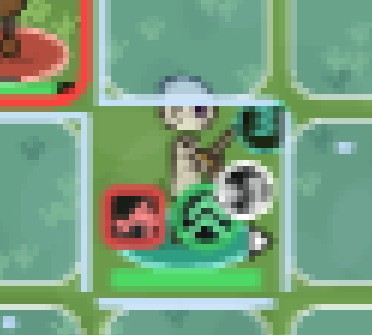
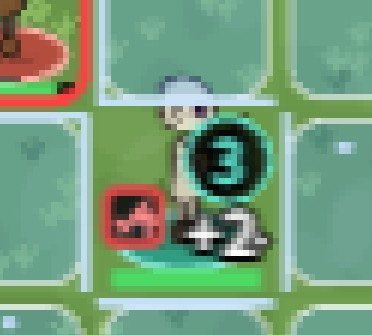
docs(6F-11): report and screenshots (same-frame zooms)

Changed region(s): [[0.4435, 0.2985, 0.7984, 0.806]]

diff --git a/docs/phases/Phase6F-11報告.md b/docs/phases/Phase6F-11報告.md
@@ -1,0 +1,237 @@
+# Phase 6F-11 報告：6F-10b 驗收的補修（800 寬召喚物標記、最上排飄字、一般單位「+N」、徽章數字、世界畫面黏字）
+
+實作者，2026-11-05。分支 `worktree-agent-a75be397fd6c53834`，從 main `28968815` 開始（含 6F-10b 與 `docs/art/6F-10b檢查.md`）。沒有 push，也沒有合併。
+
+**範圍**：只改 `client/`，只改外觀與顯示。
+- 沒碰：skillgen、內容、人物繪製。
+- 沒有新增相依套件、原生 `title=`、`Math.random`。
+
+**依據**：`docs/art/6F-10b檢查.md`「下一段要修」1～3。
+
+**截圖方式**（同 6F-10b）
+- 無頭 Chrome（`--mute-audio`，網址加 `?mute=1`），用 `Emulation.setDeviceMetricsOverride` 把視窗真的設成檔名上的尺寸（device scale 1）。
+- **全圖和放大圖是同一幀**：每組只拍一次全畫面 PNG，`_zoom` 是在頁面裡用 canvas 從同一張圖裁出來、最近鄰放大。
+- 實機量到的地圖縮放（開闊平原）：1600×900 是 127.5%、1040×624 是 79.6%、800×600 是 64.6%。
+- 戰鬥畫面都是正式畫面。狀態是攔下戰鬥 API 的回應補上去的（守護、強化、虛弱共 3 個），做法和 6F-10b 一樣：
+  - 召喚物：只補召喚物；
+  - 一般單位：開戰前就攔，補給所有沒有狀態的單位。
+- 世界畫面是正式畫面（新建角色、在主城、先關掉開場對話框）。
+  - 任務和線頭：新角色沒有，所以攔下 API 回應各補 1 筆（「霧渡鎮的委託」「蘆葦地裡的爪痕」）。右下角任務追蹤也會出現這一筆。
+  - 公告板的賽季 Boss、聯賽：用真的資料。
+
+---
+
+## 1. 800 寬（縮放 ≤ 70%）的召喚物標記
+
+做法（純函式在新檔 `render/rowLayout.ts`，由 `unitSprite.ts` 接上）：
+
+**狀態列**
+- 縮放 ≤ 70% 時（`isCompactRow`）只顯示 1 個圖示，後面接「+N」，N ＝ 狀態總數 − 1。
+- 「+N」是一般大小的字，不是角標：
+  - 粗體白字加深色描邊；
+  - 字級 9 × 反向放大倍率，畫面上和圖示的圖案一樣是 10px；
+  - 放在圖示右邊，中間留空隙，不蓋圖示。
+- 召喚物的狀態列靠左，把右上角讓給徽章。
+
+**回合數徽章**
+- 徽章自己也是「最小尺寸標記」（`registerMark`，數字畫面上至少 10px，見第 4 項）。
+  - 800 寬時放大 1.55 倍，畫面上的半徑是 7.0px。
+- 數字改成粗體加深色描邊（`SUMMON_BADGE_STROKE` 3）。
+- 放不下原位時，徽章放在格子右上角（`summonBadgeCorner`）：
+  - 整顆（含外框線）離格子邊緣 1.5px；
+  - 不壓格線、不跨進隔壁格（6F-10b 是壓出右緣 3px）。
+- 「+N」字的筆畫下緣比圖示下緣低 0.9（`ROW_PLUS_DROP`），和徽章至少留 1px。
+
+**截圖**（覆蓋舊檔）
+- `6f10b_summon_800`、`6f10b_summon_800_zoom`：
+  - 狀態列是 1 個圖示加「+2」，「+2」不蓋圖示；
+  - 徽章「3」讀得出來，整顆在格子裡。
+- `6f10b_summon_800_panel_zoom` 也從同一幀重裁。內容和舊檔一樣，所以 git 沒有變更。
+- 另外補拍：
+  - `6f11_1_summon_1040`、`_zoom`：見待決 1；
+  - `6f11_1_summon_1600`、`_zoom`：1600 寬照舊，只有數字多了描邊。
+
+## 2. 最上排的飄字
+
+- **頭頂空間的上限再往下 7px**（`FLOAT_TOP_SHIFT_PX`，畫面 px）。換成世界座標是 7 ÷ 縮放，所以 1600 寬和 800 寬在畫面上都是 7px。
+- **另外加了一條規則**：
+  - 一組字停住時如果已經在戰場上緣以內，飄到最高也不會超出上緣（`capRise`）；
+  - 離上緣不到 2px 的字就不往上飄，只彈一下；
+  - 停住時本來就在上緣外的（第一排的人頭上沒空間），照 6F-10 的規則，上界是畫布上緣。
+- 原因：只往下推 7px 時，同一個「−7」在剛出現時是在上緣以內，但之後繼續往上飄，還是會飄到上緣外約 13px（實測連拍）。
+- **截圖**（開闊平原、種子 1，主角在 (0,3) 撞到地圖邊緣兩次）：
+  - `6f11_2_top_1600`、`_zoom`：四個字都在，「−7」在草地上緣以內。
+  - `6f11_2_top_800`、`_zoom`：同上。
+  - `6f11_2_top_1600_peak`、`_zoom` 和 `6f11_2_top_800_peak`、`_zoom`：飄到最高、快淡出時，「−7」仍在上緣以內。
+
+## 3. 一般單位的「+N」
+
+- **1600、1040 寬**：改成角標，和 6F-10b 召喚物的角標一樣（`SUMMON_MORE_R` 4）。
+  - 角標接在第 2 個圖示右上角外側，放得下時完全不重疊（`moreDx` ＝ `SUMMON_MORE_DX_MAX`）。
+  - 整排夾在格子裡（`fitRow`，和召喚物同一套讓步順序）。
+- **800 寬**：照第 1 項，1 個圖示加一般大小的「+N」字，整組置中。
+- **截圖**（三組放大的都是主角 (0,3)、戰士隊友 (1,2)、盜賊 (1,3)）：
+  - `6f11_3_unit_1600`、`_zoom`：2 個圖示，「+1」角標在第 2 個圖示外面。
+  - `6f11_3_unit_1040`、`_zoom`：同上。
+  - `6f11_3_unit_800`、`_zoom`：1 個圖示加「+2」字。
+
+## 4. 徽章數字至少 10px
+
+- 召喚物回合數徽章的倍率 ＝ max(1, 10 ÷ (字級 10 × 縮放))（`summonBadgeScale`）。
+- 數字在畫面上一律 ≥ 10px，半徑跟著 ≥ 7px：
+  - 1600 寬：倍率 1，數字 12.8px；
+  - 1040 寬：倍率 1.26，數字 10px；
+  - 800 寬：倍率 1.55，數字 10px。
+- 繪製器建立單位與改變縮放時，先套用徽章、再套用狀態列（`unitMarksOf`）。狀態列重排時會一起搬徽章。
+- 重排的回呼多傳了地圖縮放（`Relayout = (k, boardScale)`），精簡列要用它判斷。
+- **截圖**：第 1 項的 `6f10b_summon_800*`、`6f11_1_summon_1040*`、`6f11_1_summon_1600*`。
+
+## 5. 世界畫面 6 處黏字
+
+- 新增 `.lead-gap { margin-inline-start: 0.75em; }`（`styles/base.css`），間距和 6F-10b 的 `SummonTitle` 一樣是 0.75em。
+- 6 處都把行首的全形空白拿掉，改成在那個 span 加上 `lead-gap`。實測 margin 是 9px。
+
+| 位置 | 截圖 |
+|---|---|
+| `world/QuestLog.tsx` 28 行（任務名稱｜種類・委託人） | `6f11_5_quest_1600`、`_zoom` |
+| `world/QuestLog.tsx` 56 行（線頭｜範圍・到期・NPC・地點） | `6f11_5_thread_1600`、`_zoom` |
+| `world/WorldGrowth.tsx` 49 行（成長與技能｜Lv…） | `6f11_5_growth_1600`、`_zoom` |
+| `world/LeaguePanel.tsx` 76 行（報名中｜賽季第 N 天…） | `6f11_5_league_1600`、`_zoom` |
+| `world/BoardPanel.tsx` 154 行（碎晶之主｜封印中） | `6f11_5_board_1600`、`_zoom` |
+| `run/FlashChooser.tsx` 86 行（閃現「點燃」｜第 1 次） | `6f11_5_flash_1600`、`_zoom`（開發入口 `/?dev=1&screen=flash`） |
+
+- **原始碼掃描**（`fix6f11.test.ts`）：所有 `.tsx` 都不准有「縮排後第一個字是全形空白」的行。
+  - 句子中間的全形空白 JSX 會保留，不在掃描範圍。
+
+---
+
+## 驗證
+
+**排版煙霧檢查**
+- 網址 `/?dev=1&anim=0.1&mute=1`，先 `localStorage.clear()` 再重新載入，跑 `__layoutSmoke.runCase('6F-11')`。伺服器帶 `TRPG_DEV_ROUTES=1`。
+- 1600×900、1040×624、800×600 三個尺寸都是「全 PASS」，各 12 列。
+- 主控台照舊有 React 的 `flushSync` 警告（`BattleScreen`，6F-10 就有，這次沒改）。
+
+**6.5.1 浮動卡實測**（功能列「技能」鈕的說明卡）
+
+| 步驟 | 1600×900 | 800×600 |
+|---|---|---|
+| 滑過 → 卡片出現 | ✓（707～821） | ✓（436～550） |
+| 滑進卡片後不關 | ✓ | ✓ |
+| 卡內捲動後不關 | ✓（卡片 106px，沒有可捲的內容，只確認不關） | ✓ |
+| 點一下釘住 → 滑出去不關 | ✓ | ✓ |
+| Esc 關閉 | ✓ | ✓ |
+
+截圖：`6f11_float_1600_pinned`、`6f11_float_800_pinned`。
+
+**交件前的完整檢查**
+- client 全部 vitest：**251 個檔、2851 項全過**，結束碼 0。
+- `corepack pnpm -C client build`（含 `tsc --noEmit`）：結束碼 0。
+
+**程序**
+- 自己啟動的程序：
+  - API 8359（`scratchpad/f11/serve.py`，用主資料夾 `.venv` 的 Python 跑 worktree 的 `src`，存檔在 `scratchpad/f11/saves`）
+  - vite 5359（暫時設定 `client/vite.f11.config.mts`，沒有 commit，交件前刪除）
+  - CDP 9591 的無頭 Chrome
+  - 煙霧檢查自己啟、自己關的無頭 Chrome（9593）
+- 結束時只用這些程序的 PID 關掉。
+- 沒碰 8000、8001、8010、`tmp_x`、`saves/`。暫存都在 `scratchpad/f11/`，沒有 commit。
+
+## 檔案清單
+
+**新增**
+- `client/src/render/rowLayout.ts`：狀態列與回合數徽章的排法（純函式）
+  - 從 `unitSprite.ts` 搬來的常數與 `summonRowLayout`；
+  - 新增 `isCompactRow`、`compactRow`、`unitRowLayout`、`fitRow`、`summonBadgeScale`、`summonBadgeCorner`、`summonBadgeAlone`；
+  - 新增檢查重疊用的幾何工具 `rowShapes`、`rowSpan`、`circleHitsBox`、`circleHitsCircle`。
+- `client/src/ui/fix6f11.test.ts`
+- 截圖 `docs/art/6f11_*`，共 34 張：
+  - 召喚物 4 張
+  - 最上排飄字 8 張
+  - 一般單位 6 張
+  - 世界畫面黏字 12 張
+  - 浮動卡 2 張
+- 本報告
+
+**覆蓋**
+- `docs/art/6f10b_summon_800.jpg`、`6f10b_summon_800_zoom.jpg`
+- `6f10b_summon_800_panel_zoom.jpg` 從同一幀重裁，內容沒變
+
+**修改**
+- `client/src/render/unitSprite.ts`：
+  - `statusRow` 改用 `unitRowLayout`、`summonRowLayout`，新增精簡列「+N」字（`plusText`）、角標（`moreTag`）；
+  - `summonBadge` 登記成標記、數字加描邊；
+  - 搬走的常數照舊從這裡匯出。
+- `client/src/render/minMark.ts`：`MIN_BADGE_FONT_PX`、`SUMMON_BADGE_LABEL`（從 unitSprite 搬來）、`Relayout` 多傳縮放、`unitMarksOf`
+- `client/src/render/BattleRenderer.ts`：
+  - `scaleUnitMarks`（徽章與狀態列一起套用）；
+  - `floatRoom` 加 `floatTopShift`；
+  - `capRise`、`groupRestTop`、`mapTopY`。
+- `client/src/render/floatStack.ts`：`FLOAT_TOP_SHIFT_PX`、`floatTopShift`、`capRise`
+- `client/src/styles/base.css`：`.lead-gap`
+- `client/src/world/QuestLog.tsx`、`WorldGrowth.tsx`、`LeaguePanel.tsx`、`BoardPanel.tsx`、`client/src/run/FlashChooser.tsx`：行首全形空白 → `lead-gap`
+- 舊測試跟著新規則改（舊規則被美術 PM 這次的決定取代）：
+  - `client/src/ui/fix6f10.test.ts`：召喚物各縮放的檢查改成照實際縮放算徽章倍率與精簡列，用圓和方框檢查重疊；「放不下時」改看右上角。
+  - `client/src/ui/fix6f10b.test.ts`：800 寬的角標、靠右緣壓出 3px 的檢查改成精簡列與右上角；接線字串跟著改。
+  - `client/src/ui/fix6f9.test.ts`：接線改看 `scaleUnitMarks`。
+
+## 測試數
+
+`fix6f11.test.ts` 共 18 項：
+- **第 1 項（7 項）**
+  - 精簡列只在縮放 ≤ 70%；
+  - 800 寬 1 個圖示加「+N」，字不蓋圖示、畫面上 ≥ 10px；
+  - 800 寬徽章半徑 ≥ 7px、數字 ≥ 10px；
+  - 800 寬徽章整顆在格子裡，和狀態列（含描邊）至少留 1px，狀態列在格子裡、在 HP 條之上；
+  - 1600 寬照 6F-10b；
+  - 1040 寬右上角、不重疊；
+  - 有炸彈時也不重疊。
+- **第 3 項（2 項）**
+  - 1600、1040 角標完全在圖示外、整排在格子裡；
+  - 800 精簡列置中。
+- **第 4 項（3 項）**
+  - 各縮放數字 ≥ 10px、半徑 ≥ 7px；
+  - 徽章是標記、套用順序（徽章先）、重排拿得到縮放；
+  - 接線。
+- **第 5 項（2 項）**
+  - 原始碼掃描：所有 `.tsx` 沒有行首全形空白；
+  - 6 處都用 `lead-gap`，CSS 有規則。
+- **原始碼掃描（1 項）**：這次動到的檔案不用 `Math.random`、不用原生 `title=`。
+- **第 2 項（3 項）**
+  - 7px 在三個尺寸都是畫面 7px；
+  - `capRise` 的規則；
+  - 接線。
+
+`fix6f10.test.ts` 19 項、`fix6f10b.test.ts` 12 項、`fix6f9.test.ts`、浮動卡規則 `floatCardRule.test.ts` 全過。
+
+## commit
+
+- `62e9f9ab`：800 寬精簡狀態列、所有單位的「+N」角標、徽章數字至少 10px（第 1、3、4 項）
+- `4fcef4be`：飄字的頭頂空間再往下 7px，停住時在上緣以內的不飄出去（第 2 項）
+- `059ef94d`：世界畫面改用 `lead-gap`，加原始碼掃描（第 5 項）
+- 最後是截圖與本報告
+
+## 待 PM 決定
+
+以下都照最保守的做法先做完了：
+
+1. **1040 寬的召喚物**：徽章數字要 ≥ 10px，徽章放大 1.26 倍後原位會超出格子，所以也放到右上角。
+   - 2 個狀態：照樣顯示 2 個圖示。
+   - 3 個以上：「+N」角標會撞到右上角的徽章，所以改成和 800 寬一樣的 1 個圖示加「+2」字（`6f11_1_summon_1040_zoom`）。
+   - 規格只寫了「一般單位 1040 用角標」，召喚物 1040 沒寫。
+2. **徽章放在右上角，會蓋到骷髏頭部右邊和武器上端**（800、1040）。
+   - 格子只有 31px（800 寬）。徽章直徑 14px、圖示 12px、「+N」字 10px，三樣同時在格子裡，就一定會蓋到身體某處。
+   - 右上角是唯一能讓三樣不互相重疊、又不超出格子的位置。
+3. **第 2 項多加了一條規則**（`capRise`）：停住時在戰場上緣以內的字不會飄出上緣，最上面那個字幾乎不往上飄，只彈一下。
+   - 只往下推 7px 時，「−7」飄到最高還是會超出上緣約 13px。
+   - 如果只要照字面往下 7px、照常往上飄，拿掉 `capRise` 這一行就可以。
+4. **800 寬「+N」字的描邊下緣**比圖示下緣低約 2.6px（世界座標）。單位有護盾時，會蓋到護盾條上緣約 1px（沒有護盾時離 HP 條還有 0.7px）。
+   - 原因：要讓字離右上角的徽章至少 1px。
+5. **手動把地圖縮到 50%**：格子只剩 24px，徽章和狀態列疊不下，會有重疊；精簡列也可能超出格子左緣。
+   - 測試只檢查到 60% 以上。
+6. **召喚物身上有定時炸彈**（800、1040）：炸彈徽章本身沒有反向放大，可能和右上角的回合數徽章靠得很近。這次沒有實機拍到這個情況。
+7. **1040 寬一般單位的「+1」角標**：字是 7 × 1.4 倍，畫面上約 7.8px，圓的半徑約 4.4px，比較小。
+   - 這是 6F-10b 召喚物角標的大小，這次沒有放大。
+8. **「徽章數字至少 10px」只套在召喚物回合數徽章**。炸彈、蓄力、灌注的徽章沒有改。
+9. **`lead-gap` 用 0.75em**（約 9px），和 6F-10b 的 `SummonTitle` 一樣。原本的全形空白是 1em。
+10. **1600 寬召喚物徽章的數字也多了深色描邊**。描邊的規則不分尺寸，所以 1600 寬的外觀也有小小的變化。
